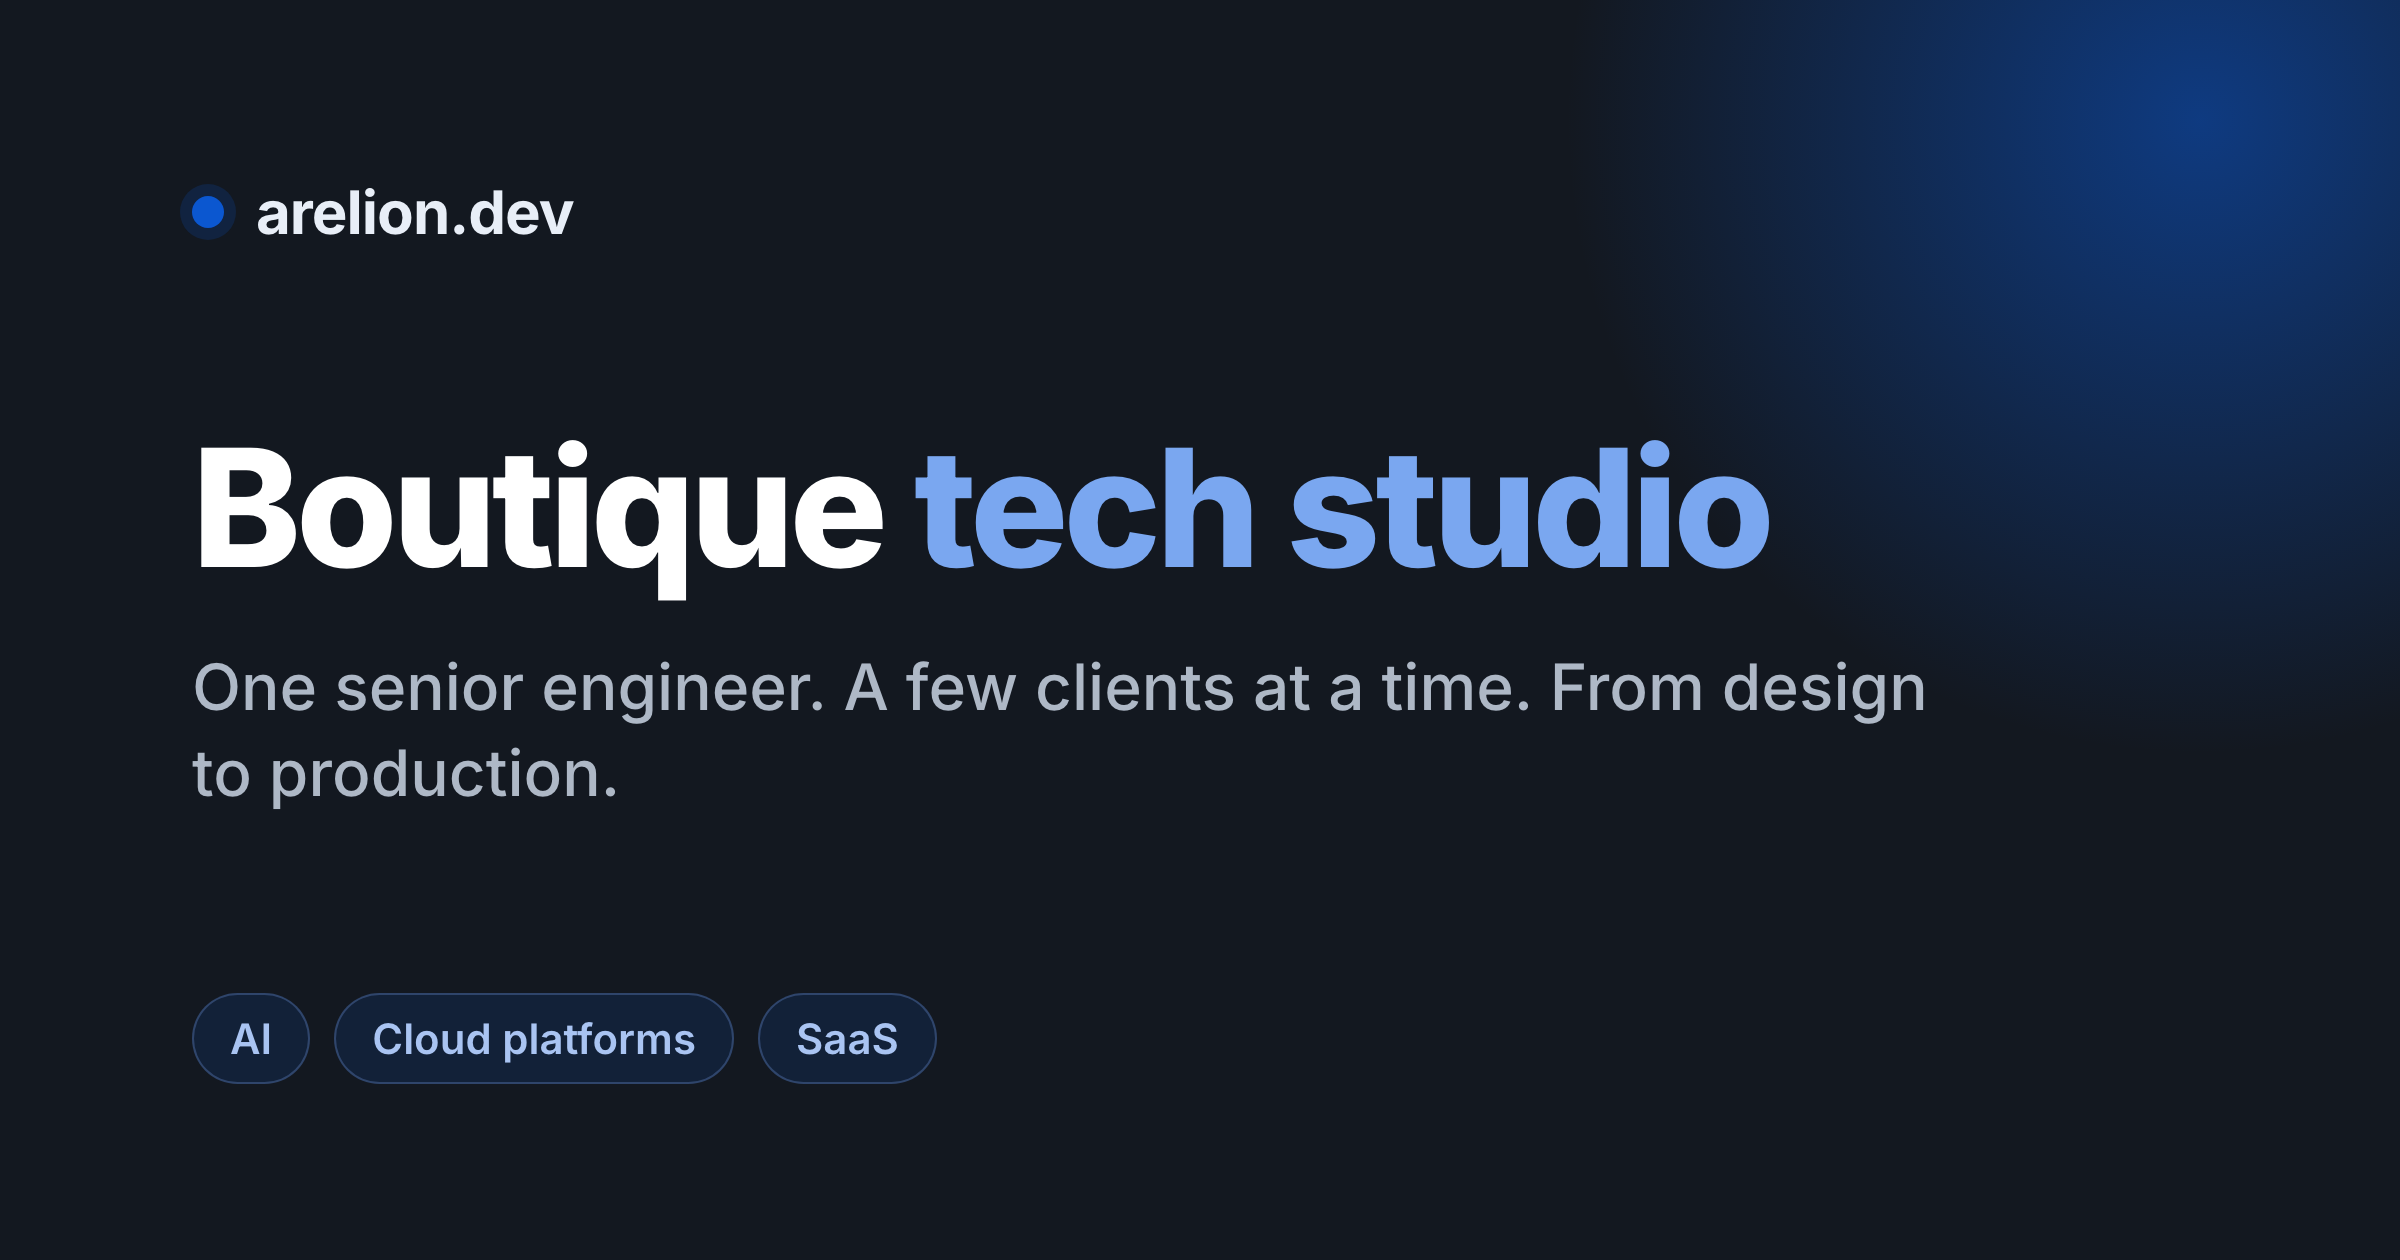
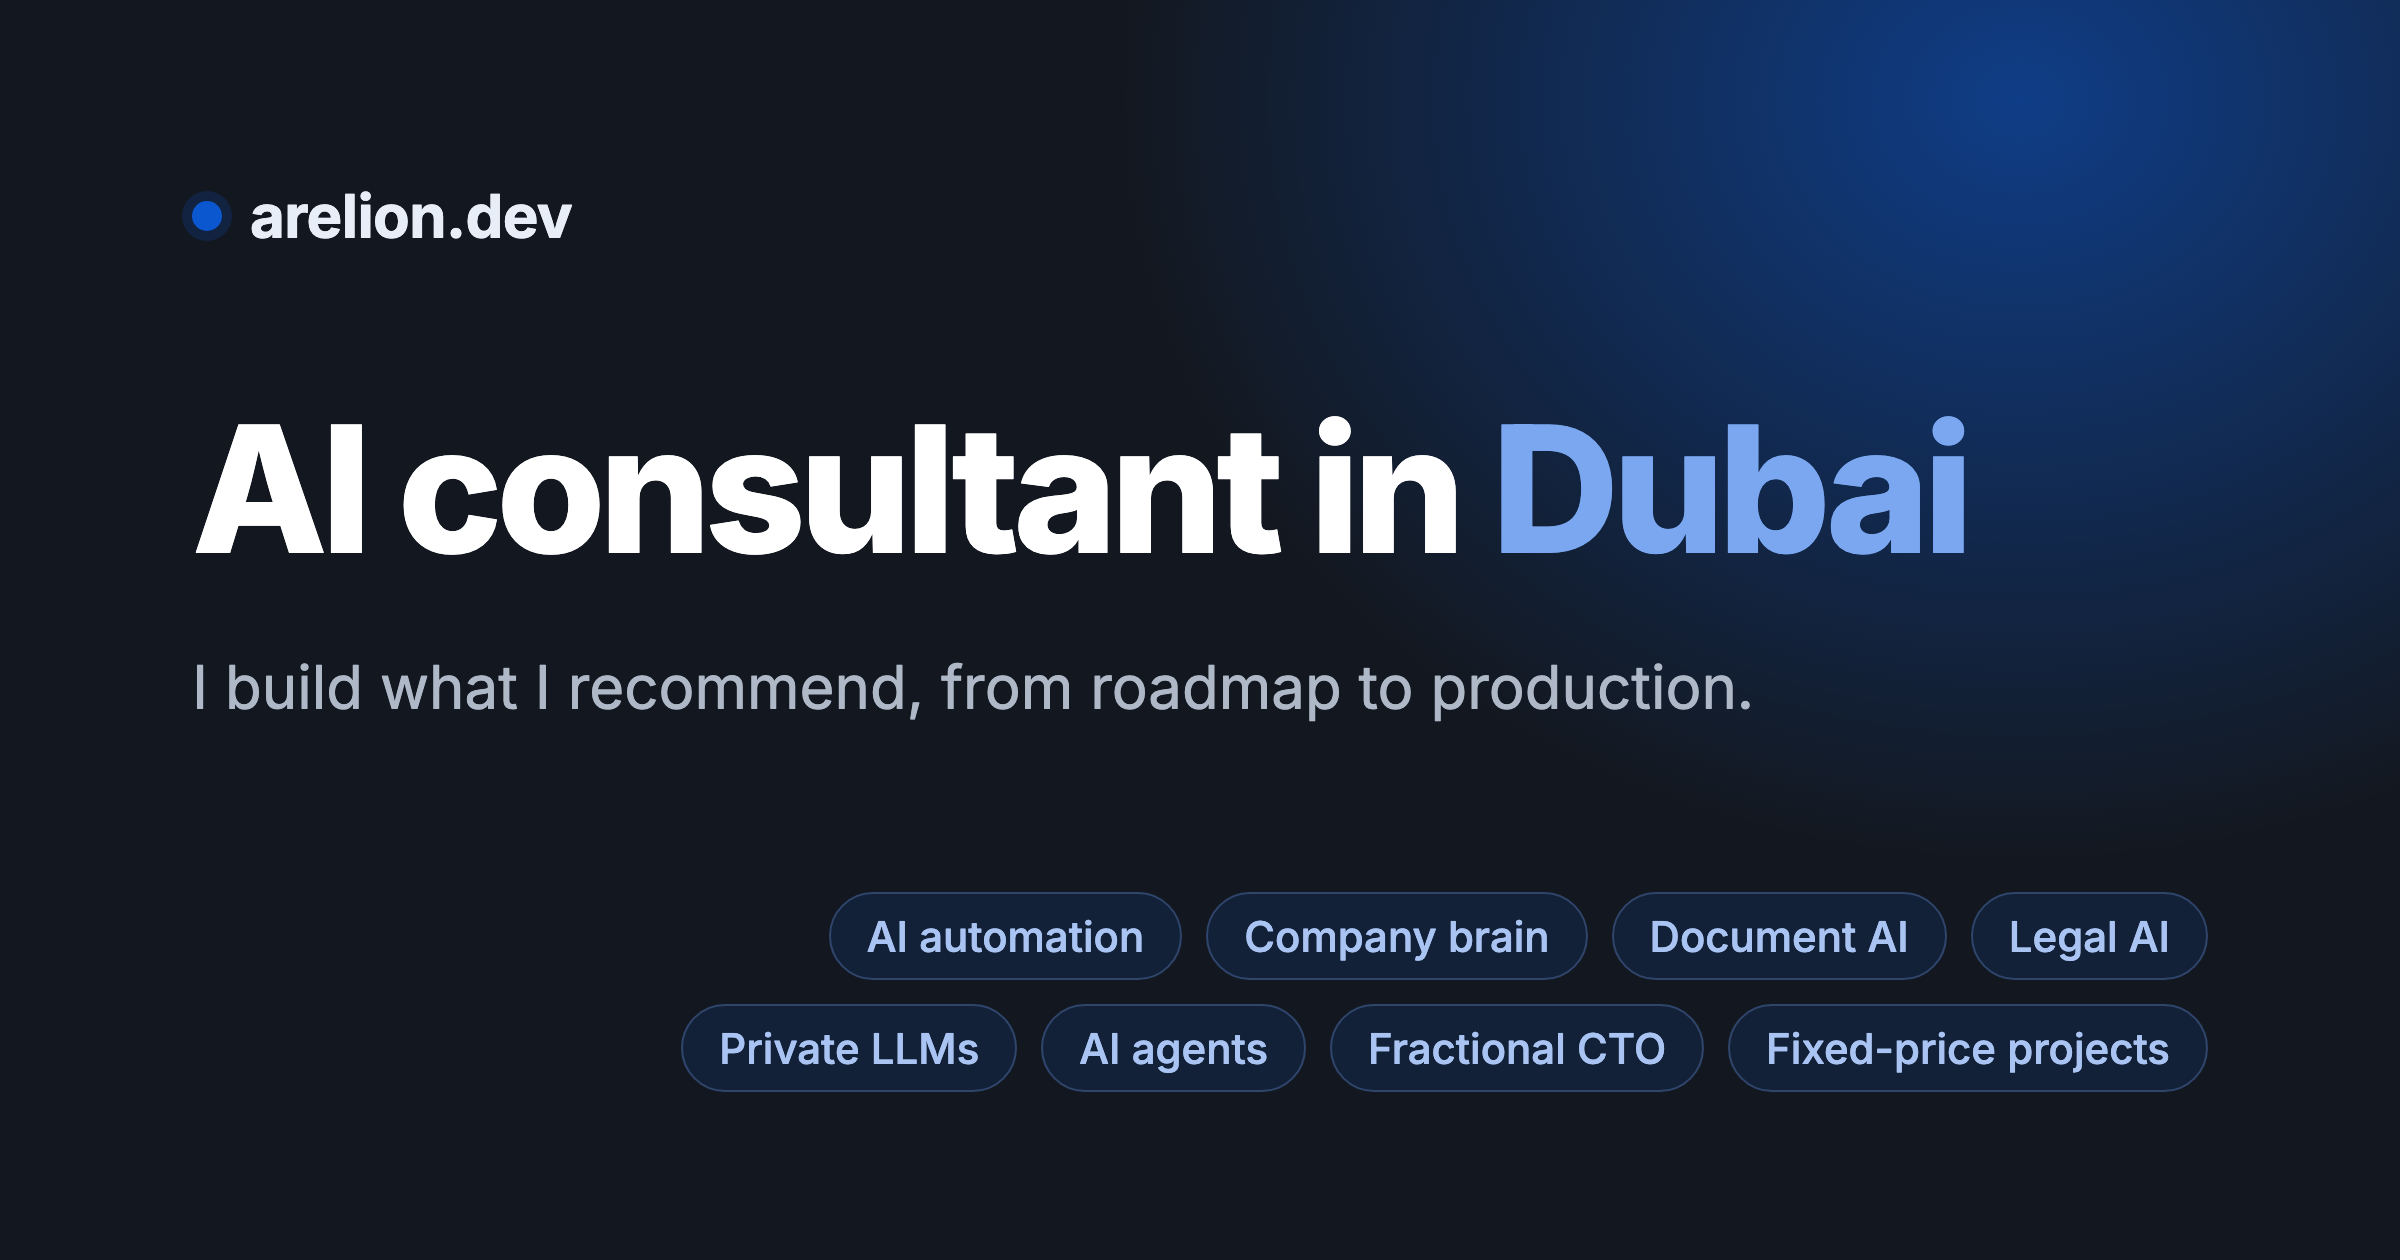
Update default share image to current positioning
The default og:image, used by the home page and the guides, still read
"Boutique tech studio", a positioning dropped on 2026-10-06. LinkedIn
freezes that image in Featured cards and in every share of these pages.

The new image says "AI consultant in Dubai" with the roadmap to
production line, and eight service labels aligned right so a profile
photo does not cover them. The alt text follows, and a test checks it
on the built home page.

diff --git a/src/components/seo.js b/src/components/seo.js
@@ -45,7 +45,7 @@ const SEO = ({ description, title, pathname, image, children }) => {
       <meta property="og:image:secure_url" content={ogImage} />
       <meta property="og:image:width" content="1200" />
       <meta property="og:image:height" content="630" />
-      <meta property="og:image:alt" content={image ? title : "arelion.dev, boutique tech studio"} />
+      <meta property="og:image:alt" content={image ? title : "arelion.dev, AI consultant in Dubai"} />
       <meta name="twitter:card" content="summary_large_image" />
       <meta
         name="twitter:creator"
